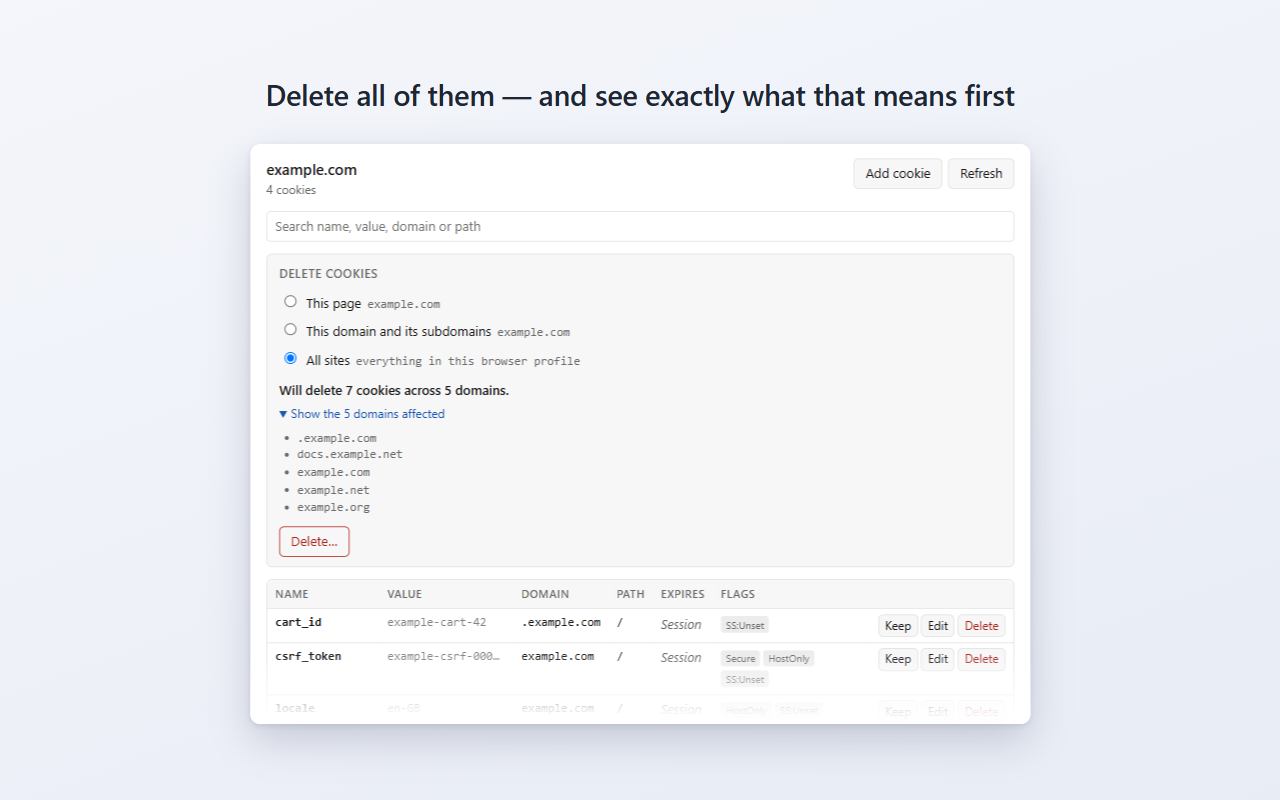
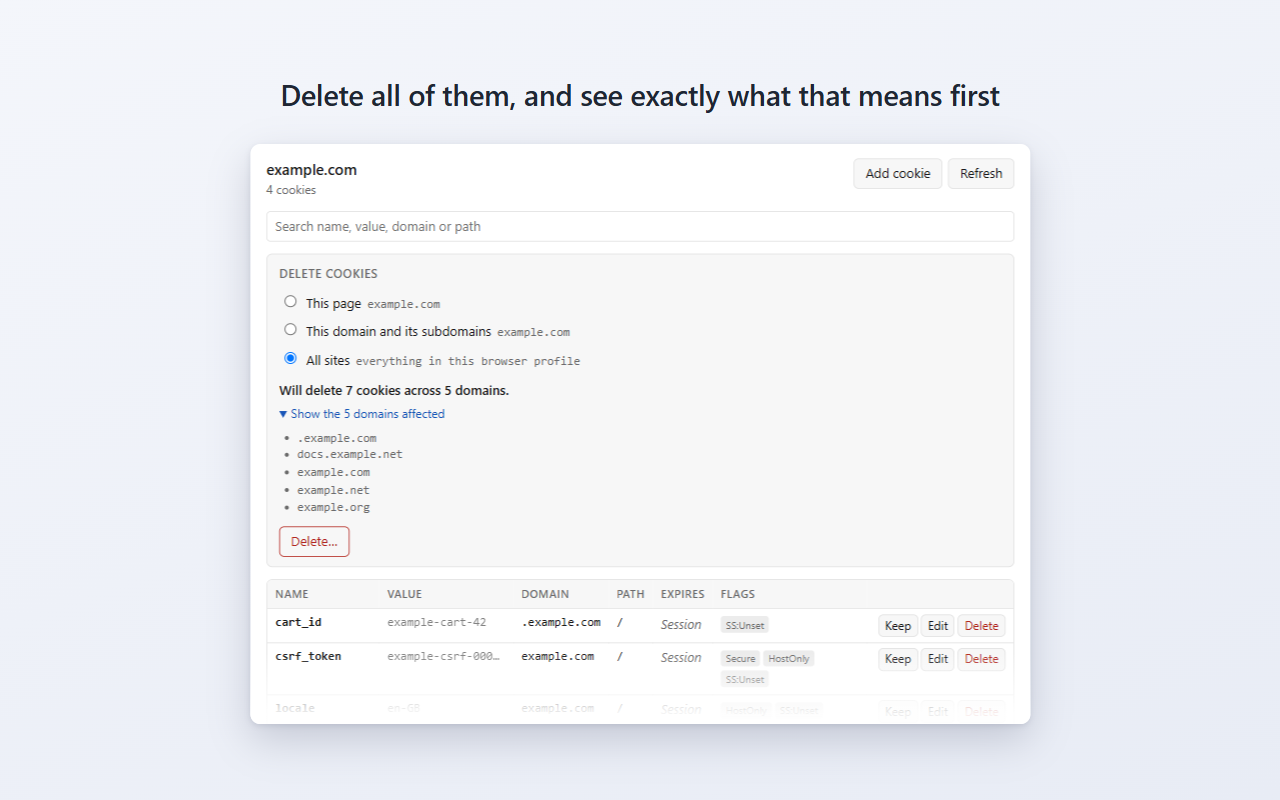
Drop the em dash from the delete-scope screenshot caption
Reads as a comma splice rather than a typographic flourish.

Changed region(s): [[0.1875, 0.0938, 0.8125, 0.1562]]

diff --git a/tests/make_store_screenshots.py b/tests/make_store_screenshots.py
@@ -53,7 +53,7 @@ COOKIES = [
 
 SHOTS = [
     ("01-overview", "See every cookie on the site you're on"),
-    ("02-delete-scope", "Delete all of them — and see exactly what that means first"),
+    ("02-delete-scope", "Delete all of them, and see exactly what that means first"),
     ("03-edit", "Create and edit any field of a cookie"),
     ("04-search", "Search, then delete only what you're looking at"),
     ("05-keep", "Keep the cookies you don't want to lose"),
